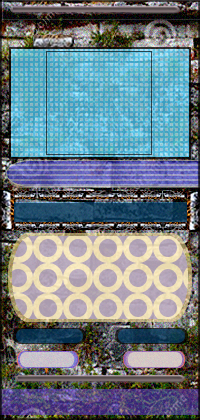
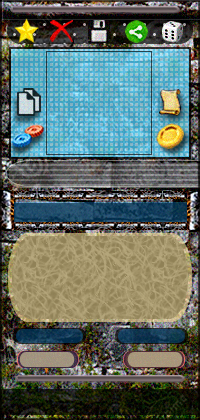
nice

diff --git a/src/routes/+page.svelte b/src/routes/+page.svelte
@@ -73,16 +73,14 @@
 <img class="z-50 pointer-events-none decoration-right fixed right-0 top-0 h-screen w-auto object-contain" src="BrushRight.png" alt="Right decoration" />
 <img bind:this={brushBottomImage} class="z-49 pointer-events-none decoration-right fixed bottom-0 w-screen object-contain" src="BrushBottom.png" alt="Right decoration" />
 
-<div	class=" Gridbox flex justify-center bg-fixed bg-cover bg- center"
+<div	class=" pt-0 Gridbox flex justify-center"
 >
 	<div class="${columns} mt-16 pt-7 grid grid-cols-1 sm:grid-cols-2 md:grid-cols-3 lg:grid-cols-4 xl:grid-cols-5 2xl:grid-cols-6 3xl:grid-cols-7 4xl:grid-cols-8 gap-5">
 		{#each data.posts as post, i}
-			<div
-				class="mt-2 max-w-8x1  flex justify-center overflow-x-auto  bg-transparent "
-			>
+			<div class="mt-2 max-w-8x1  flex justify-center overflow-x-auto  bg-transparent ">
 				<div class="mb-2 mt-0 overflow-y-auto">
 					<div
-						style="background-image: url('SpellCard_Test_BG.png');"
+						style="background-image: url('SpellCard_Test_BG2.png');"
 						class="spellcard rounded-lg border-4 border-slate-900  bg-gradient-to-r from-slate-200 to-slate-300 bg-cover bg-center p-1 shadow-md"
 					>
 						<!-- Your post content here -->
@@ -92,8 +90,7 @@
 									src="./Button_Favorite.png"
 									alt="Edit Card"
 									class="h-full w-full"
-								/></button
-							>
+								/></button>
 							<button class="h-6 w-6 rounded"
 								><img
 									src="./Button_Delete.png"
@@ -152,7 +149,7 @@
 									>
 								</div>
 
-								<div class="mx-2">
+								<div class="mx-2 ">
 									<img
 										src="./cheems.fw.png"
 										alt="Favicon"
@@ -215,21 +212,23 @@
 
 						
 
-
-
+						
 						<div class="mt-1 ml-2 flex justify-between">
-							<p class="mt-1 ml-2  text-xs text-black">
-								{post.description}
+							<p class="mt-1 ml-2 text-xs text-black w-24 whitespace-nowrap overflow-hidden overflow-ellipsis">
+							  {post.description}
 							</p>
-
+						  
 							<div class="mt-2 mr-1.5">
-								<img
-									src="/cheems.fw.png"
-									alt="cheems"
-									style="width: 45px; height: 80px;"
-								/>
+							  <img
+								src="/DescAvatar_CheemsFloat.png"
+								alt="cheems"
+								class="w-11 h-20 object-cover"
+							  />
 							</div>
-						</div>
+						  </div>
+
+
+
 
 						<!-- Public/Private signafier, image, members online -->
 						<div class="mb- grid grid-cols-3  items-start">
@@ -244,7 +243,7 @@
 							</div>
 							<div class="mt-3 flex justify-center">
 								<img
-									src="/cheems.fw.png"
+									src="/Crest_Tornado.png"
 									alt="Favicon"
 									style="width: 35px; height: 35px;"
 								/>

diff --git a/src/routes/blog/+page.svelte b/src/routes/blog/+page.svelte
@@ -24,6 +24,39 @@
       brushBottomImage.style.transform = `translateY(${scrollProgress}px)`;
     });
   }
+
+  import {  onDestroy } from 'svelte';
+  // Reactive variable for the number of columns
+  let columns = 'grid-cols-4';
+
+  // Function to update the number of columns
+  function updateColumns() {
+    const windowWidth = window.innerWidth;
+
+    if (windowWidth >= 2560) {
+      columns = 'grid-cols-10';
+    } else if (windowWidth >= 2304) {
+      columns = 'grid-cols-9';
+    } else if (windowWidth >= 2048) {
+      columns = 'grid-cols-8';
+    } else if (windowWidth >= 1792) {
+      columns = 'grid-cols-7';
+    } else if (windowWidth >= 1536) {
+      columns = 'grid-cols-6';
+    } else if (windowWidth >= 1280) {
+      columns = 'grid-cols-5';
+    } else {
+      columns = 'grid-cols-4';
+    }
+  }
+  onMount(() => {
+    updateColumns(); // Call the function on component mount
+    window.addEventListener('resize', updateColumns); // Add the event listener
+  });
+
+  onDestroy(() => {
+    window.removeEventListener('resize', updateColumns); // Remove the event listener on component unmount
+  });
 </script>
 
 
@@ -53,9 +86,9 @@
 <img class="z-50 pointer-events-none decoration-right fixed right-0 top-0 h-screen w-auto object-contain" src="BrushRight.png" alt="Right decoration" />
 <img bind:this={brushBottomImage} class=" z-49 pointer-events-none decoration-right fixed bottom-0 w-screen object-contain" src="BrushBottom.png" alt="Right decoration" />
 
-<div	class="pt-7 Gridbox flex justify-center"
+<div	class="pt-0 Gridbox flex justify-center"
 >
-	<div class=" mt-16 pt-7 grid grid-cols-1 sm:grid-cols-2 md:grid-cols-3 lg:grid-cols-4 xl:grid-cols-5 2xl:grid-cols-6 3xl:grid-cols-7 4xl:grid-cols-8 gap-5">
+	<div class="${columns} mt-16 pt-7 grid grid-cols-1 sm:grid-cols-2 md:grid-cols-3 lg:grid-cols-4 xl:grid-cols-5 2xl:grid-cols-6 3xl:grid-cols-7 4xl:grid-cols-8 gap-5">
 				{#each filteredPosts as post, i}
 				<div
 				class="mt-2 max-w-8x1  flex justify-center overflow-x-auto  bg-transparent "
@@ -200,7 +233,7 @@
 
 							<div class="mt-2 mr-1.5">
 								<img
-									src="/cheems.fw.png"
+									src="/DescAvatar_CheemsFloat.png"
 									alt="cheems"
 									style="width: 45px; height: 80px;"
 								/>
@@ -220,7 +253,7 @@
 							</div>
 							<div class="mt-3 flex justify-center">
 								<img
-									src="/cheems.fw.png"
+									src="/Crest_Tornado.png"
 									alt="Favicon"
 									style="width: 35px; height: 35px;"
 								/>

diff --git a/src/routes/dashboard/+page.svelte b/src/routes/dashboard/+page.svelte
@@ -36,7 +36,7 @@
 
 
 
-<div	class=" Gridbox flex justify-center bg-fixed bg-cover bg- center"
+<div	class=" pt-0 Gridbox flex justify-center"
 >
 	<div class="mt-16 pt-7 grid grid-cols-1 sm:grid-cols-2 md:grid-cols-3 lg:grid-cols-4 xl:grid-cols-5 2xl:grid-cols-6 3xl:grid-cols-7 4xl:grid-cols-8 gap-5">
 		{#each data.posts as post, i}
@@ -193,7 +193,7 @@
 
 							<div class="mt-2 mr-1.5">
 								<img
-									src="/cheems.fw.png"
+									src="/DescAvatar_CheemsFloat.png"
 									alt="cheems"
 									style="width: 45px; height: 80px;"
 								/>
@@ -213,7 +213,7 @@
 							</div>
 							<div class="mt-3 flex justify-center">
 								<img
-									src="/cheems.fw.png"
+									src="/Crest_Tornado.png"
 									alt="Favicon"
 									style="width: 35px; height: 35px;"
 								/>

diff --git a/src/routes/+layout.svelte b/src/routes/+layout.svelte
@@ -12,15 +12,25 @@
 </script>
 
 <svelte:head>
-	<title>Blog</title>
-	<link rel="icon" href="https://fav.farm/🔥" />
+	<title>Dataspells</title>
+	<link rel="icon" href="https://fav.farm/✨" />
 </svelte:head>
 
-<div class="background bg-fixed bg-cover bg-center bg-no-repeat h-screen" style="background-image: url('indexBackground.png'); background-attachment: fixed;"></div>
+
+<div class="background bg-fixed bg-cover bg-center bg-no-repeat h-screen" 
+	 style="background-image: url('indexBackground.png'); background-attachment: fixed;">
+</div>
+
 <Heading />
+
 <div class="content-container">
 	<slot />
 </div>
+
+
+
+
+
 
 <style>
 	.background {

diff --git a/src/routes/heading.svelte b/src/routes/heading.svelte
@@ -17,7 +17,7 @@
 
 <nav class="z-10 position-relative mt-6 mr-4 flex justify-center ">
 	<a class="unstyled text-xl mr-4 text-white" href="/">
-		<b>🔥 Dataspells</b>
+		<b>✨Dataspells</b>
 	</a>
 
 	<div class=" flex items-center gap-4">
